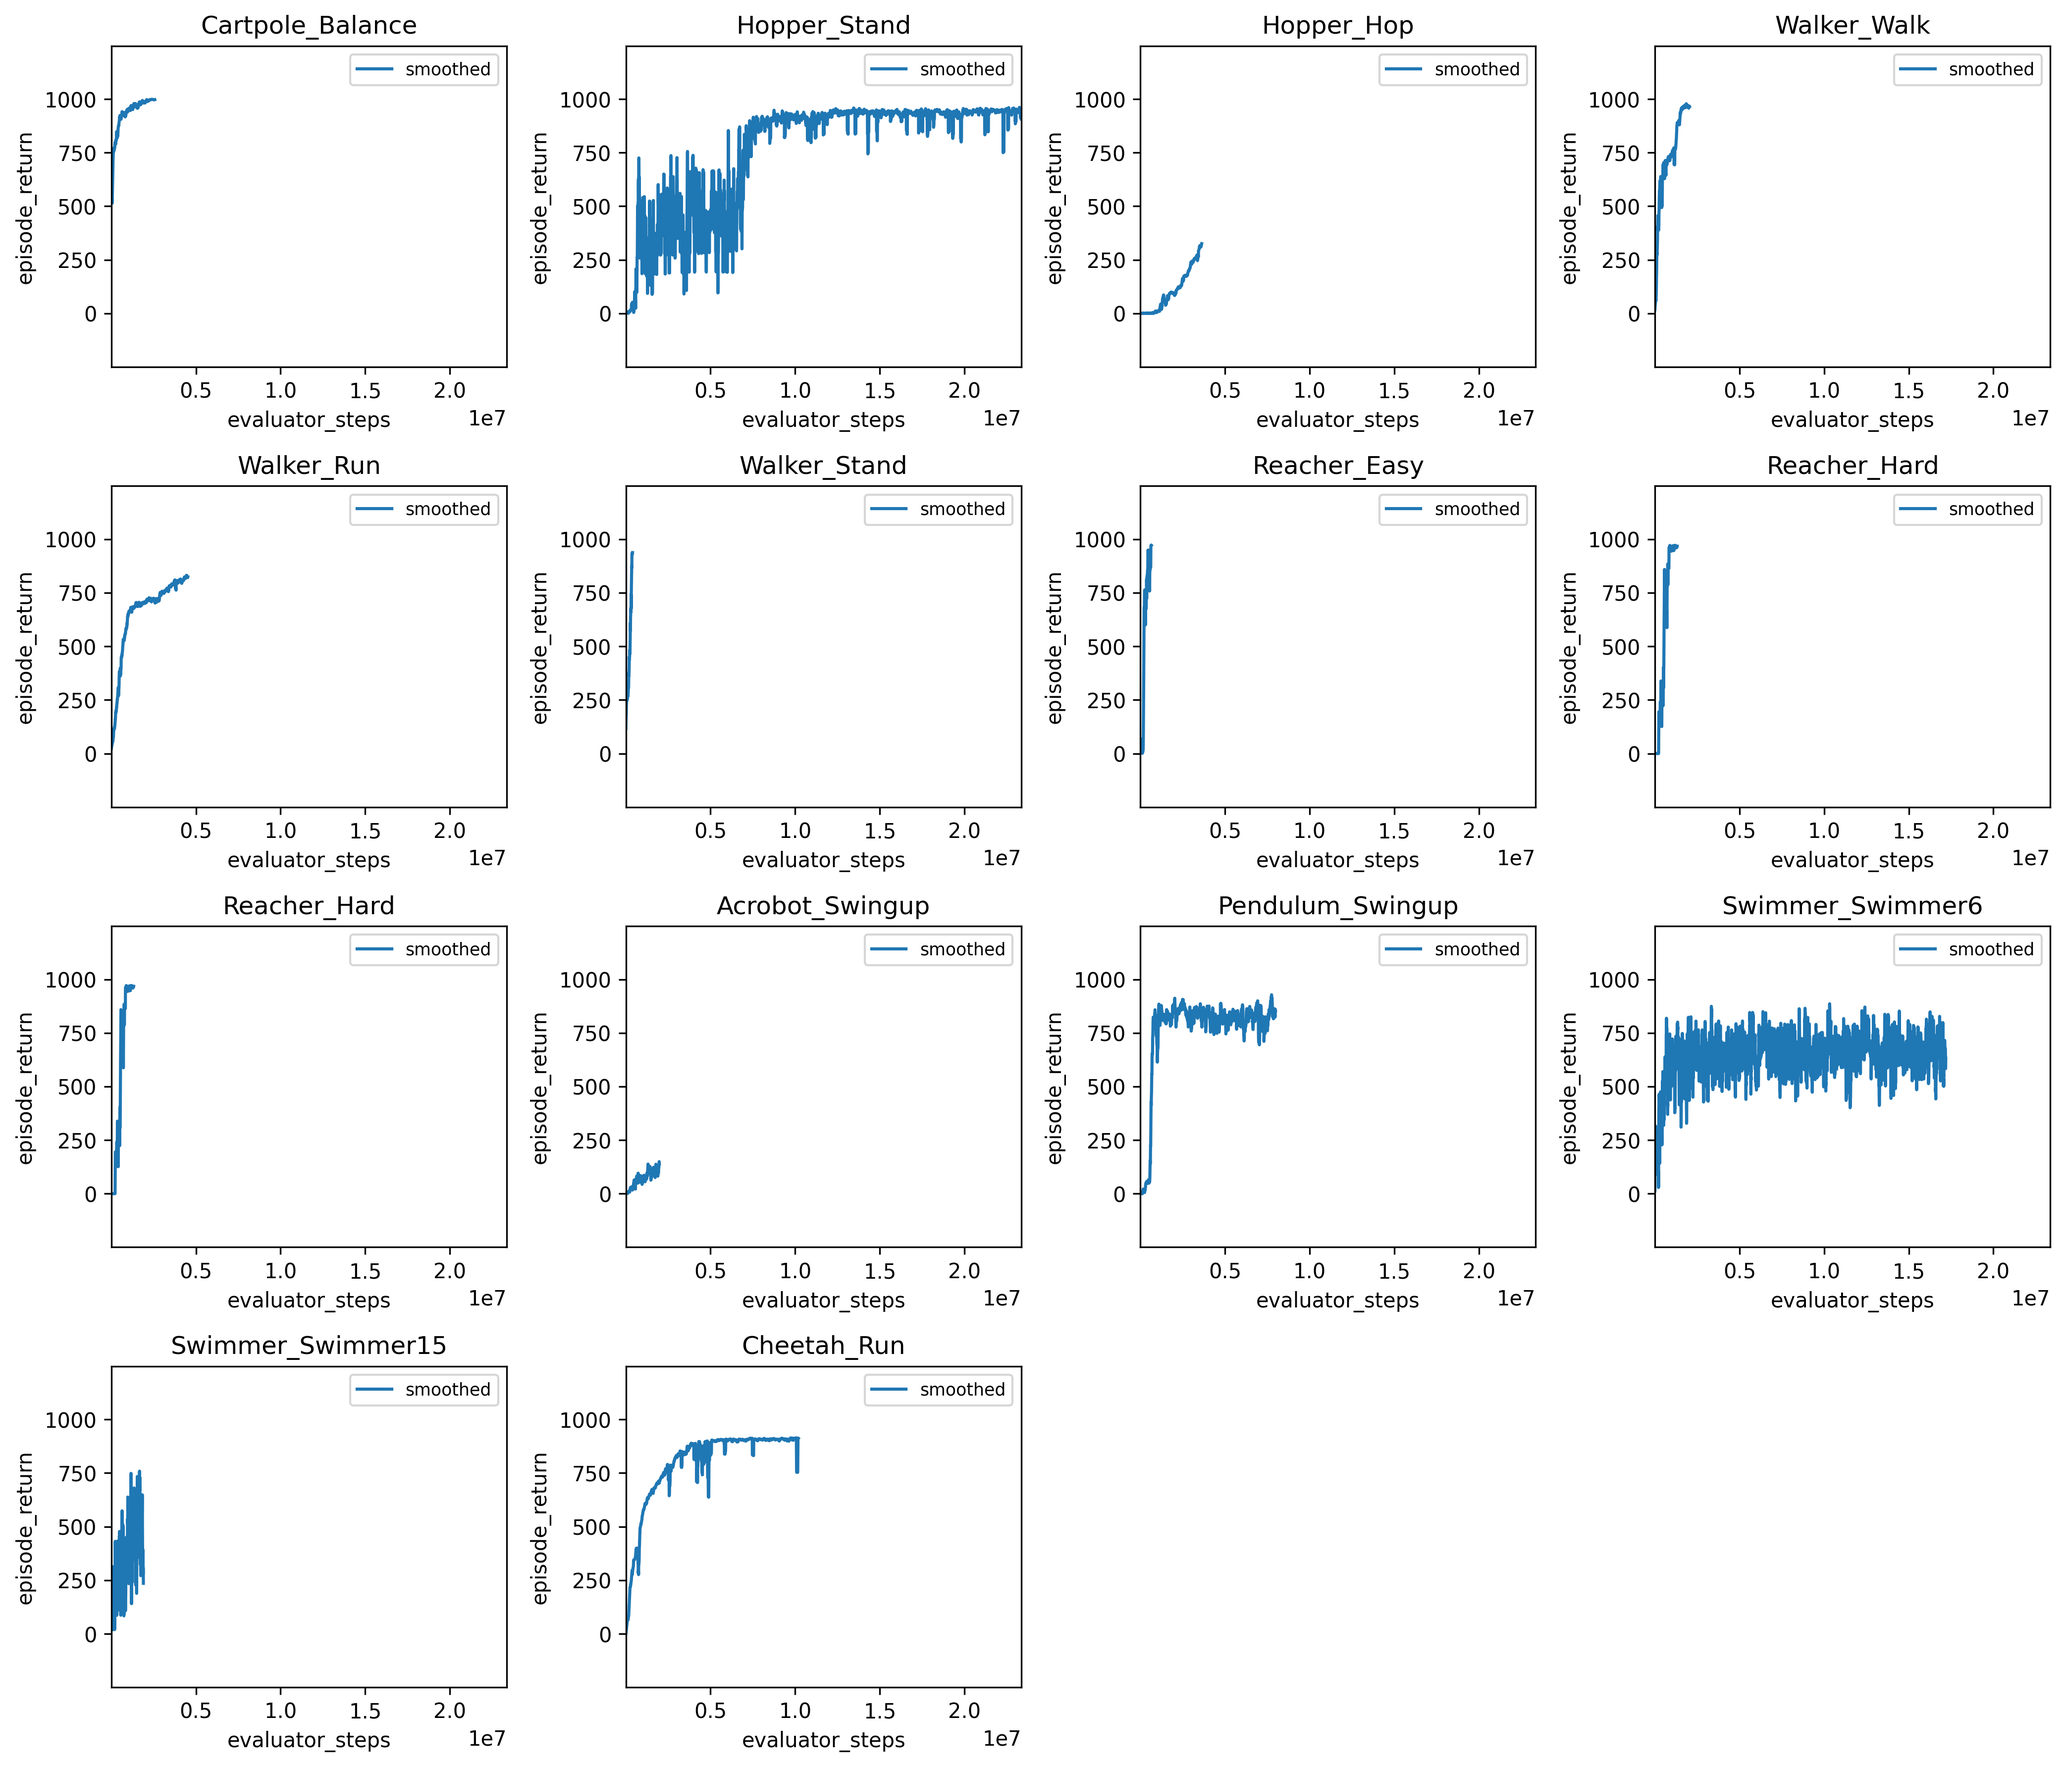
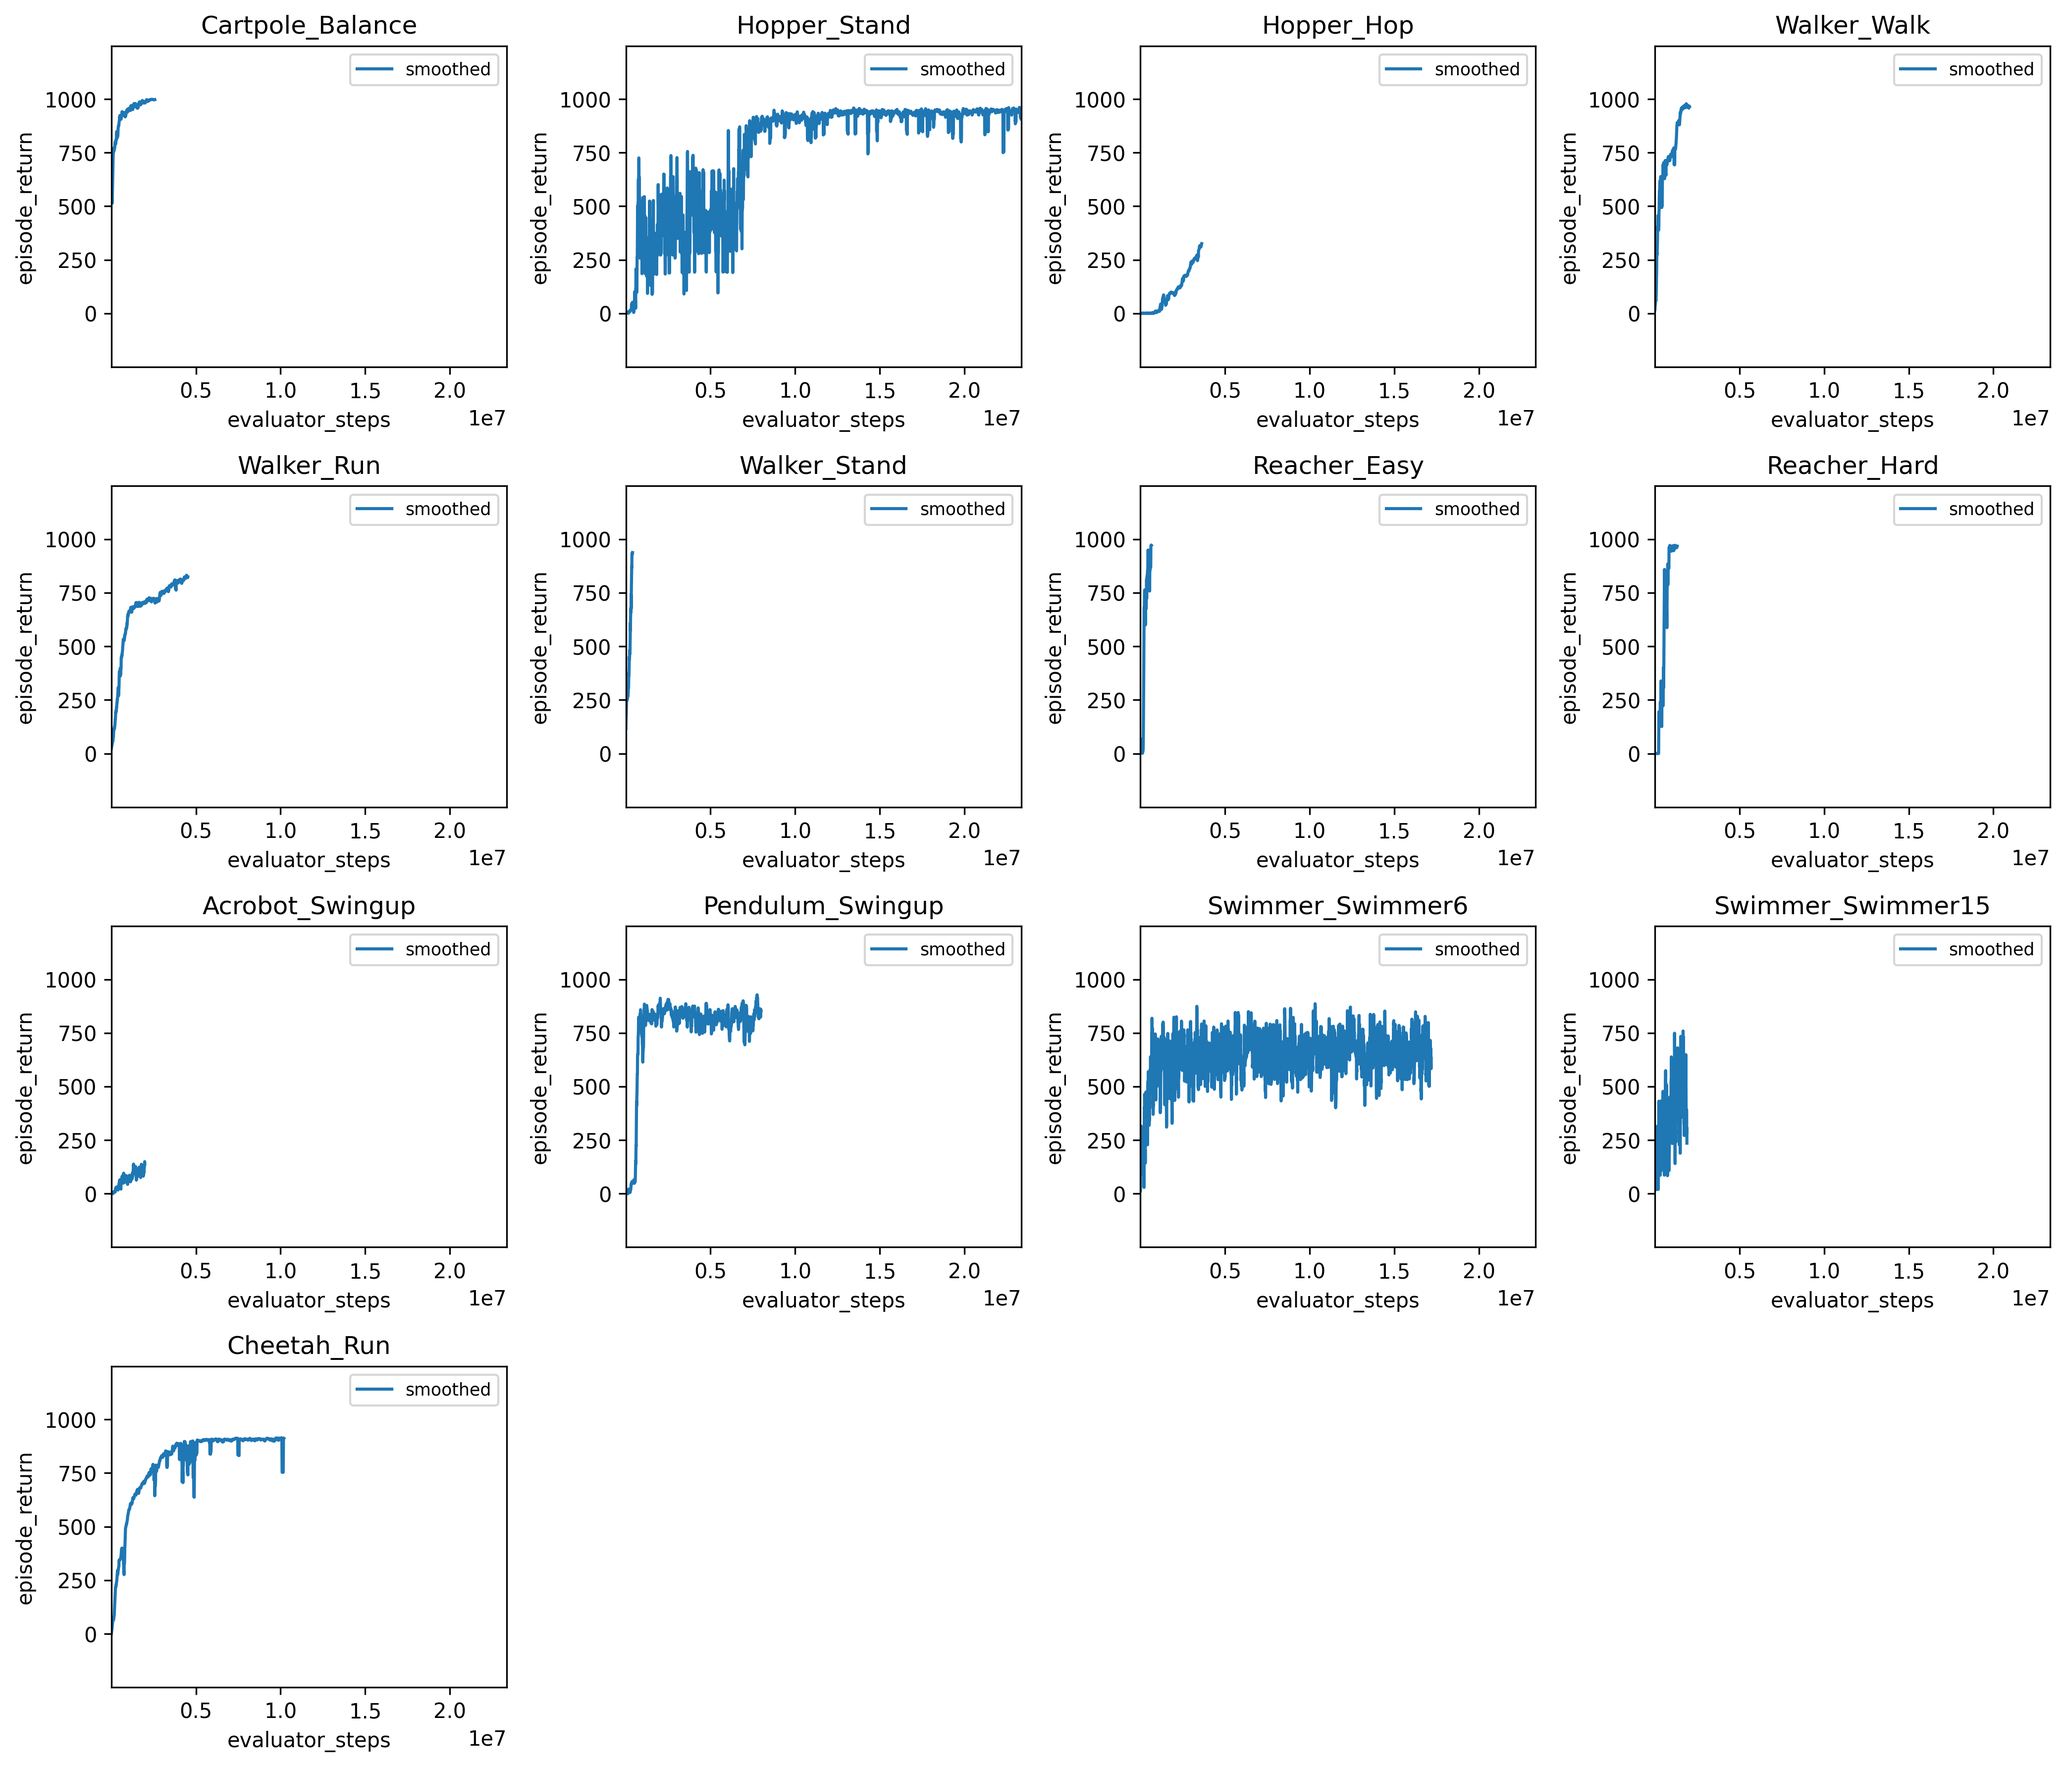
fix-results

diff --git a/src/acme_tf_custom/train_acme_tf_mpo.py b/src/acme_tf_custom/train_acme_tf_mpo.py
@@ -1711,6 +1711,9 @@ def parse_args():
     parser.add_argument("--max_actor_steps", type=int, default=3_000_000)
     parser.add_argument("--n_step", type=int, default=5)
     parser.add_argument("--timeout", type=int, default=None)
+    parser.add_argument("--wandb_project", type=str, default="mpo_project")
+    parser.add_argument("--wandb_entity", type=str, default="adrian-research")
+    parser.add_argument("--wandb_group_prefix", type=str, default=None)
     return parser.parse_args()
 
 
@@ -1720,31 +1723,27 @@ def main(args):
 
     random.seed(seed)
     np.random.seed(seed)
-    try:
-        tf.random.set_seed(seed)
-    except Exception:
-        pass
-    # Try enabling TF deterministic ops if available (best-effort).
-    try:
-        tf.config.experimental.enable_op_determinism()
-    except Exception:
-        # Not available on all TF versions; ignore if not present.
-        pass
+    tf.random.set_seed(seed)
 
-    # Use domain/task-based identifier and log seed into wandb config.
     experiment_identifier = f"{args.domain}_{args.task}__{seed}_" + time.strftime(
         "%Y%m%d-%H%M%S"
     )
     wandb.init(
         name=experiment_identifier,
-        entity="adrian-research",
-        group=f"{args.domain}_{args.task}",
-        project="lp_mpo_single_file",
+        entity=args.wandb_entity,
+        group=(
+            f"{args.wandb_group_prefix}_{args.domain}_{args.task}"
+            if args.wandb_group_prefix
+            else f"{args.domain}_{args.task}"
+        ),
+        project=args.wandb_project,
         config={
             "domain": args.domain,
             "task": args.task,
             "max_actor_steps": args.max_actor_steps,
             "seed": seed,
+            "n_step": args.n_step,
+            "timeout": args.timeout,
         },
     )
     _timeout_timer = None

diff --git a/README.md b/README.md
@@ -36,7 +36,7 @@ python src/acme_launchpad_tf/train_lp_mpo_single_file.py --max_actor_steps 30000
 #### Visualise
 
 ```bash
-python src/acme_launchpad_tf/visualize_acme_results.py --output results/acme_tf.png --metric episode_return --file "Cartpole_Balance::results/acme/mpo-tf-cartpole-balance.csv" --file "Hopper_Stand::results/acme/mpo-tf-hopper-stand.csv" --file "Hopper_Hop::results/acme/mpo-tf-hopper-hop.csv" --file "Walker_Walk::results/acme/mpo-tf-walker-walk.csv" --file "Walker_Run::results/acme/mpo-tf-walker-run.csv" --file "Walker_Stand::results/acme/mpo-tf-walker-stand.csv" --file "Reacher_Easy::results/acme/mpo-tf-reacher-easy.csv" --file "Reacher_Hard::results/acme/mpo-tf-reacher-hard.csv" --file "Reacher_Hard::results/acme/mpo-tf-reacher-hard.csv"  --file "Acrobot_Swingup::results/acme/mpo-tf-acrobot-swingup.csv"   --file "Pendulum_Swingup::results/acme/mpo-tf-pendulum-swingup.csv"  --file "Swimmer_Swimmer6::results/acme/mpo-tf-swimmer-swimmer6.csv" --file "Swimmer_Swimmer15::results/acme/mpo-tf-swimmer-swimmer15.csv" --file "Cheetah_Run::results/acme/mpo-tf-cheetah-run.csv" 
+python src/acme_launchpad_tf/visualize_acme_results.py --output results/acme_tf.png --metric episode_return --file "Cartpole_Balance::results/acme/mpo-tf-cartpole-balance.csv" --file "Hopper_Stand::results/acme/mpo-tf-hopper-stand.csv" --file "Hopper_Hop::results/acme/mpo-tf-hopper-hop.csv" --file "Walker_Walk::results/acme/mpo-tf-walker-walk.csv" --file "Walker_Run::results/acme/mpo-tf-walker-run.csv" --file "Walker_Stand::results/acme/mpo-tf-walker-stand.csv" --file "Reacher_Easy::results/acme/mpo-tf-reacher-easy.csv" --file "Reacher_Hard::results/acme/mpo-tf-reacher-hard.csv"  --file "Acrobot_Swingup::results/acme/mpo-tf-acrobot-swingup.csv"   --file "Pendulum_Swingup::results/acme/mpo-tf-pendulum-swingup.csv"  --file "Swimmer_Swimmer6::results/acme/mpo-tf-swimmer-swimmer6.csv" --file "Swimmer_Swimmer15::results/acme/mpo-tf-swimmer-swimmer15.csv" --file "Cheetah_Run::results/acme/mpo-tf-cheetah-run.csv" 
 ```
 
 ![Acme Results](results/acme_tf.png)
